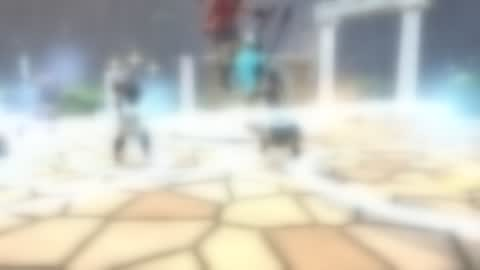
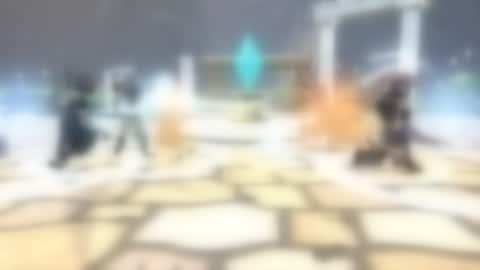
Home page key art refilmed with the painted textures
The mode backdrops (and their blurred copies behind the god pick screen)
still showed the old procedural floors and walls. All eight are filmed
again from the current build. The clash still now clears the fight before
its frame and keeps the bots' skills in hand, since a shuffled-in god's
cloud filled the whole frame; the README records which frame each mode uses.

Claude-Session: https://claude.ai/code/session_01CS3nLhWfBHzcz1Qsr2buBY

diff --git a/tools/trailer/README.md b/tools/trailer/README.md
@@ -55,5 +55,11 @@ ffmpeg -i public/keyart/duel.jpg -vf "scale=480:-1,gblur=sigma=6" -q:v 6 public/
 ffmpeg -i public/keyart/duel.jpg -vf scale=256:-1 -q:v 4 public/keyart/duel-thumb.jpg
 ```
 
+The shipped frames: clash `kaClash/0002`, jotunn `kaJotunn/0009`, siege
+`kaSiege/0000`, duel `kaDuel/0000`, arena `kaArena/0009` mirrored, conquest
+`cqVista/0005`, rush `mdRush/0002` and descent `mdDescent/0001` mirrored (from
+a `cqVista,mdRush,mdDescent --frames 8` run; the bots' gods are shuffled, so a
+rerun can need a different frame). Refilm them after changing a map's textures.
+
 The god pick screen's full-length god art (`public/splash/<god>.jpg`) is baked
 by `node tools/portraits/bake.mjs http://localhost:4173 zeus,thor,... --splash`.
